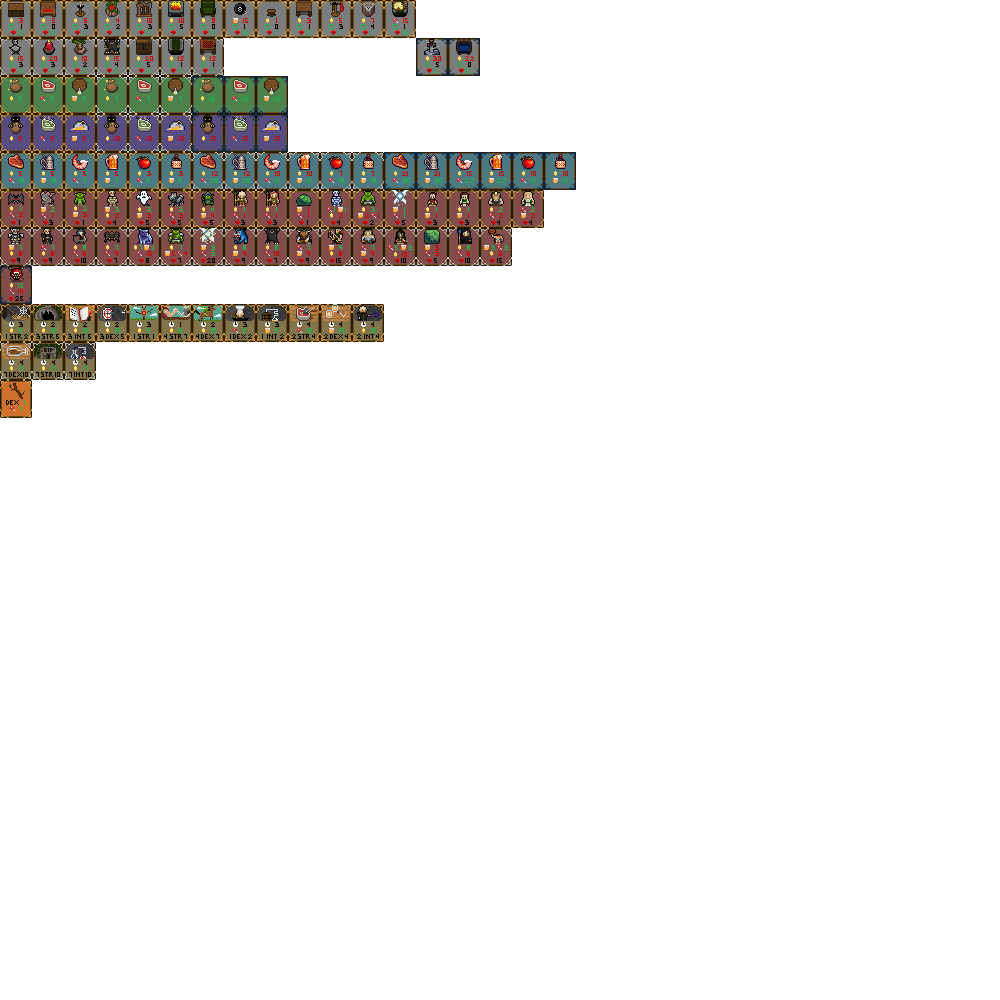
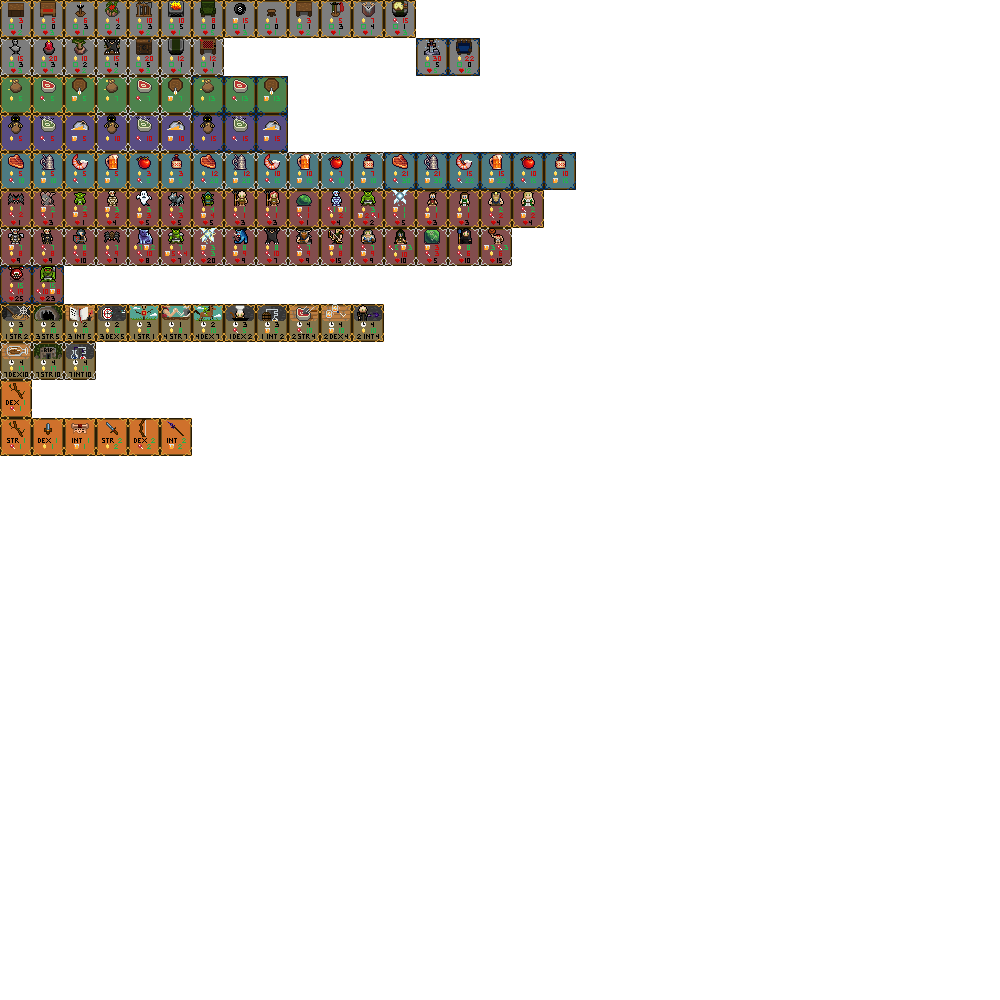
Fixed Some Item Issues Added Orc Behemoth

Changed region(s): [[0.0, 0.403, 0.217, 0.465], [0.031, 0.248, 0.062, 0.31]]

diff --git a/db.js b/db.js
@@ -99,7 +99,8 @@ var CHARCARDSPRITES = {
     "slimecube" : new Vector2D(13, 6),
     "humanmage" : new Vector2D(14, 6),
     "headlessman" : new Vector2D(15,6),
-    "beholder" : new Vector2D(0,7)
+    "beholder" : new Vector2D(0,7),
+    "orcbehemoth" : new Vector2D(1,7)
 }
 
 var QUESTCARDSPRITES = {
@@ -121,7 +122,12 @@ var QUESTCARDSPRITES = {
 }
 
 var ITEMCARDSPRITES = {
-    "uglystick" : new Vector2D(0,10)
+    "uglystick" : new Vector2D(0,11),
+    "thiefdagger" : new Vector2D(1,11),
+    "scroll" : new Vector2D(2,11),
+    "shortsword" : new Vector2D(3,11), 
+    "huntersbow" : new Vector2D(4,11),
+    "apprenticewand" : new Vector2D(5,11)
 }
 
 var RSCTYPECHANCE = 0.5;
@@ -133,8 +139,8 @@ var NOCHARCHANCE = 0.1;
 var ONECHARCHANCE = NOCHARCHANCE + 0.5;
 var TWOCHARCHANCE = ONECHARCHANCE + 0.3;
 
-var NOQUESTCHANCE = 0.5;
-var ONEQUESTCHANCE = NOQUESTCHANCE + 0.4;
+var NOQUESTCHANCE = 0.55;
+var ONEQUESTCHANCE = NOQUESTCHANCE + 0.35;
 
 var UNCOMMONSTARTTURN = 10;
 var RARESTARTTURN = 30;
@@ -458,7 +464,7 @@ class Database
                                             OBJECTSPRITES["swordinstone"].x, OBJECTSPRITES["swordinstone"].y, 5, 5, false, undefined,
                                             new ResourceUpkeep(this.gold, -30), "Sword in the Stone"));
         this.objectCardsRare.push(new ObjectCard(OBJECTSPRITES["kingschair"].x, OBJECTSPRITES["kingschair"].y,
-                                            OBJECTSPRITES["kingschair"].x, OBJECTSPRITES["kingschair"].y, 12, 0, false, undefined,
+                                            OBJECTSPRITES["kingschair"].x, OBJECTSPRITES["kingschair"].y, 12, 0, true, undefined,
                                             new ResourceUpkeep(this.gold, -22), "King's Chair"));
     }
 
@@ -692,6 +698,10 @@ class Database
                                               CHARCARDSPRITES["beholder"].x, CHARCARDSPRITES["beholder"].y, 25, 
                                               [ new ResourceUpkeep(this.food, -19), new ResourceUpkeep(this.gold, 15) ], "Beholder",
                                               new CharacterStats(6,3,3)));
+        this.charCardsRare.push(new CharacterCard(CHARCARDSPRITES["orcbehemoth"].x, CHARCARDSPRITES["orcbehemoth"].y,
+                                              CHARCARDSPRITES["orcbehemoth"].x, CHARCARDSPRITES["orcbehemoth"].y, 25, 
+                                              [ new ResourceUpkeep(this.food, -10), new ResourceUpkeep(this.beer, -8), new ResourceUpkeep(this.gold, 15) ], "Orc Behemoth",
+                                              new CharacterStats(1,7,3)));
                                               
                                               
     }
@@ -750,6 +760,21 @@ class Database
     {
         this.itemCardsCommon.push(new ItemCard(ITEMCARDSPRITES["uglystick"].x, ITEMCARDSPRITES["uglystick"].y,
                                     ITEMCARDSPRITES["uglystick"].x, ITEMCARDSPRITES["uglystick"].y,
-                                    new CharacterStats(0,0,1), [new ResourceUpkeep(this.food, 1)],1,"Ugly Stick"));
+                                    new CharacterStats(0,1,0), [new ResourceUpkeep(this.food, 1)],1,"Ugly Stick"));
+        this.itemCardsCommon.push(new ItemCard(ITEMCARDSPRITES["thiefdagger"].x, ITEMCARDSPRITES["thiefdagger"].y,
+                                    ITEMCARDSPRITES["thiefdagger"].x, ITEMCARDSPRITES["thiefdagger"].y,
+                                    new CharacterStats(0,0,1), [new ResourceUpkeep(this.gold, 1)],1,"Thief's Dagger"));
+        this.itemCardsCommon.push(new ItemCard(ITEMCARDSPRITES["scroll"].x, ITEMCARDSPRITES["scroll"].y,
+                                    ITEMCARDSPRITES["scroll"].x, ITEMCARDSPRITES["scroll"].y,
+                                    new CharacterStats(1,0,0), [new ResourceUpkeep(this.beer, 1)],1,"Old Scroll"));
+        this.itemCardsCommon.push(new ItemCard(ITEMCARDSPRITES["shortsword"].x, ITEMCARDSPRITES["shortsword"].y,
+                                    ITEMCARDSPRITES["shortsword"].x, ITEMCARDSPRITES["shortsword"].y,
+                                    new CharacterStats(0,2,0), [new ResourceUpkeep(this.gold, 2)],2,"Short Sword"));
+        this.itemCardsCommon.push(new ItemCard(ITEMCARDSPRITES["huntersbow"].x, ITEMCARDSPRITES["huntersbow"].y,
+                                    ITEMCARDSPRITES["huntersbow"].x, ITEMCARDSPRITES["huntersbow"].y,
+                                    new CharacterStats(0,0,2), [new ResourceUpkeep(this.food, 2)],2,"Hunting Bow"));
+        this.itemCardsCommon.push(new ItemCard(ITEMCARDSPRITES["apprenticewand"].x, ITEMCARDSPRITES["apprenticewand"].y,
+                                    ITEMCARDSPRITES["apprenticewand"].x, ITEMCARDSPRITES["apprenticewand"].y,
+                                    new CharacterStats(2,0,0), [new ResourceUpkeep(this.beer, 2)],2,"Apprentice Wand"));
     }
 }

diff --git a/model.js b/model.js
@@ -670,6 +670,7 @@ class CharacterCard extends Card
         let canPayUpkeep = true;
         this.satisfactionLevel = 0;
         this.objectSatisfaction = 0;
+        //find minuses and make sure you can pay for
         for (let i = 0; i < this.resourceUpkeeps.length; i++)
         {
           let rscAmount = this.resourceUpkeeps[i].amount;
@@ -677,7 +678,8 @@ class CharacterCard extends Card
           {
             for (let o = 0; o < this.item.resourceUpkeeps.length; o++)
             {
-              if (this.resourceUpkeeps[i].resource.name == this.item.resourceUpkeeps[o].resource.name)
+              if (this.resourceUpkeeps[i].resource.name == this.item.resourceUpkeeps[o].resource.name && 
+                this.item.resourceUpkeeps[o].amount > 0)
               {
                 rscAmount += this.item.resourceUpkeeps[o].amount;
               }
@@ -689,6 +691,19 @@ class CharacterCard extends Card
             break;
         }
 
+        //find negatives on items and make sure you can pay for
+        if (canPayUpkeep && this.item != undefined)
+        {
+          for (let i = 0; i < this.item.resourceUpkeeps.length; i++)
+          {
+            let rscAmount = this.item.resourceUpkeeps[i].amount;
+            if (rscAmount < 0)
+              canPayUpkeep = this.item.resourceUpkeeps[i].HaveEnough();
+            if (!canPayUpkeep)
+              break;
+          }
+        }
+
         if (!canPayUpkeep)
           this.satisfactionLevel -= 1000;
         else
@@ -696,6 +711,13 @@ class CharacterCard extends Card
           for (let i = 0; i < this.resourceUpkeeps.length; i++)
           {
             this.resourceUpkeeps[i].Update();
+          }
+          if (this.item != undefined)
+          {
+            for (let i = 0; i < this.item.resourceUpkeeps.length; i++)
+            {
+              this.item.resourceUpkeeps[i].Update();
+            }
           }
         }        
 
@@ -714,7 +736,7 @@ class CharacterCard extends Card
         }
 
         //random chance to just leave
-        if (Math.random() > 0.95 && !this.firstAppearance)
+        if (Math.random() > 0.95 && !this.firstAppearance && this.item == undefined && this.stats.level < 5)
           this.satisfactionLevel = RANDOMLEAVESATISFACTION;
     }
 
@@ -965,12 +987,14 @@ class Board
                 {
                   battleMessages.push(this.characterMap[x][y].name + " won a fight against " + this.characterMap[adjacentx][adjacenty].name);
                   this.characterMap[x][y].stats.LevelUp();
+                  this.HandOverItem(this.characterMap[adjacentx][adjacenty], this.characterMap[x][y]);
                   this.characterMap[adjacentx][adjacenty] = undefined;
                 }
                 else if (battleDecision < 0.1)
                 {
                   battleMessages.push(this.characterMap[adjacentx][adjacenty].name + " won a fight against " + this.characterMap[x][y].name);
                   this.characterMap[adjacentx][adjacenty].stats.LevelUp();
+                  this.HandOverItem(this.characterMap[x][y], this.characterMap[adjacentx][adjacenty]);
                   this.characterMap[x][y] = undefined;
                 }
                 else
@@ -983,6 +1007,7 @@ class Board
                   {
                     battleMessages.push(this.characterMap[adjacentx][adjacenty].name + " won a fight against " + this.characterMap[x][y].name);
                     this.characterMap[adjacentx][adjacenty].stats.LevelUp();
+                    if (this.characterMap[adjacentx][adjacenty].item == undefined)
                     this.characterMap[x][y] = undefined;
                   }
                   else
@@ -1003,6 +1028,17 @@ class Board
       }
     }
     return battleMessages;
+  }
+
+  HandOverItem(fromChar, toChar)
+  {
+    if (fromChar.item == undefined)
+      return;
+    else if (toChar.item == undefined || toChar.item.itemLevel < fromChar.item.itemLevel)
+    {
+      toChar.item = fromChar.item;
+      fromChar.item = undefined;
+    }
   }
 
   Draw(ctx, placingObject, drawSecondaryBackdrop)

diff --git a/main.js b/main.js
@@ -120,9 +120,9 @@ class Game
       {
         let textBoxLength = this.focusedCardText.length * 5;
         this.ctx.fillStyle = BUTTONCOLOR;
-        this.ctx.fillRect(this.ctx.canvas.width/2 - textBoxLength/2, 22, textBoxLength, 14);
+        this.ctx.fillRect(this.ctx.canvas.width/2 - textBoxLength/2, 16, textBoxLength, 14);
         this.ctx.fillStyle = TEXTCOLOR;
-        this.ctx.fillText(this.focusedCardText, this.ctx.canvas.width/2 - textBoxLength/2, 32);
+        this.ctx.fillText(this.focusedCardText, this.ctx.canvas.width/2 - textBoxLength/2, 26);
       }
     }
   }
